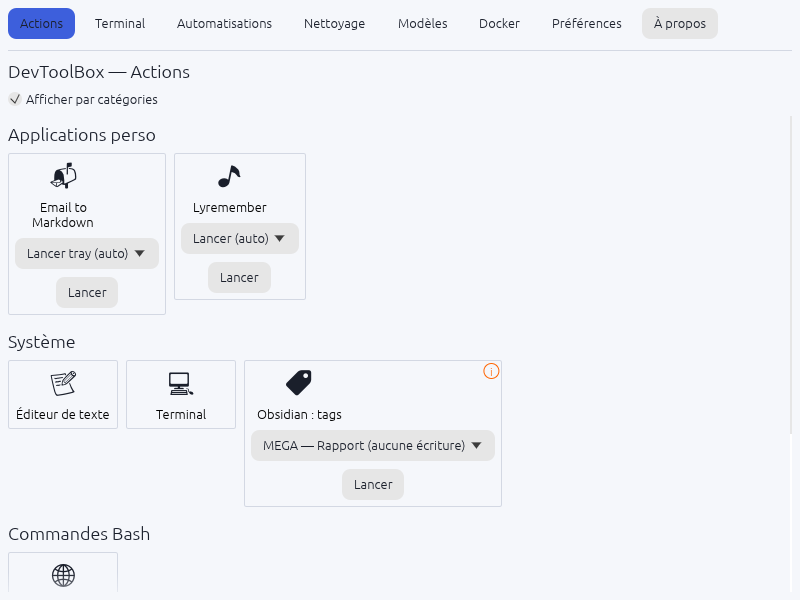
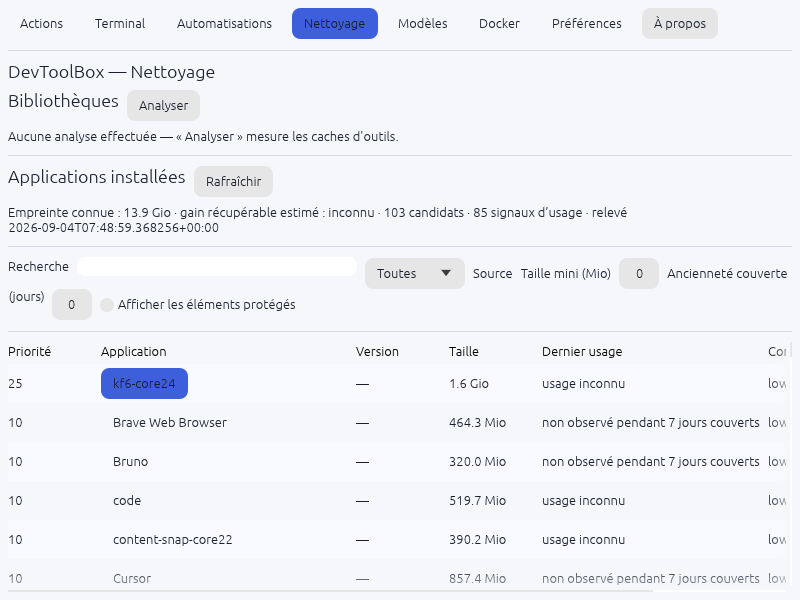
fix(appimage): qualify Linux desktop identity

diff --git a/src/main.rs b/src/main.rs
@@ -53,6 +53,19 @@ impl std::io::Write for FlushFile {
 const LOG_MAX_BYTES: u64 = 5 * 1024 * 1024;
 const MAINTENANCE_ERROR_EXIT_CODE: i32 = 20;
 
+fn application_icon() -> egui::IconData {
+    let image = image::load_from_memory(include_bytes!("../assets/app-icon/devtoolbox.png"))
+        .expect("bundled DevToolBox icon must be valid PNG")
+        .to_rgba8();
+    let (width, height) = image.dimensions();
+
+    egui::IconData {
+        rgba: image.into_raw(),
+        width,
+        height,
+    }
+}
+
 /// One-generation rotation: when `path` is at or past `LOG_MAX_BYTES`, move it
 /// to `<path>.old` (replacing any previous `.old`) so the next run starts from
 /// an empty file. Keeping one generation rather than truncating outright means
@@ -143,6 +156,7 @@ fn main() {
         viewport: ui::native_window::configure_viewport(
             egui::ViewportBuilder::default()
                 .with_title("DevToolBox")
+                .with_icon(application_icon())
                 .with_inner_size([800.0, 600.0])
                 .with_min_inner_size([400.0, 300.0]),
         ),
@@ -222,7 +236,7 @@ where
 #[cfg(test)]
 mod tests {
     use super::{
-        rotate_if_oversized, run_maintenance_command_with, LOG_MAX_BYTES,
+        application_icon, rotate_if_oversized, run_maintenance_command_with, LOG_MAX_BYTES,
         MAINTENANCE_ERROR_EXIT_CODE,
     };
     use std::io::Write as _;
@@ -256,6 +270,15 @@ mod tests {
         assert_eq!(std::fs::metadata(&log).expect("still there").len(), 32);
         assert!(!dir.join("devtoolbox.log.old").exists());
         let _ = std::fs::remove_dir_all(&dir);
+    }
+
+    #[test]
+    fn bundled_application_icon_is_a_square_rgba_image() {
+        let icon = application_icon();
+
+        assert_eq!(icon.width, 1024);
+        assert_eq!(icon.height, 1024);
+        assert_eq!(icon.rgba.len(), (icon.width * icon.height * 4) as usize);
     }
 
     #[test]

diff --git a/scripts/verify-package-config.py b/scripts/verify-package-config.py
@@ -25,6 +25,11 @@ require(config.get("macos", {}).get("minimumSystemVersion") == "13.0", "macOS 13
 require(set(config.get("deb", {}).get("depends", [])) >= {"libc6 (>= 2.35)", "libx11-6", "libwayland-client0"}, "dépendances deb incomplètes")
 require("desktopTemplate" in config.get("deb", {}), "template desktop deb absent")
 require(config.get("linux", {}).get("generateDesktopEntry") is True, "desktop Linux absent")
+desktop_template = ROOT / config.get("deb", {}).get("desktopTemplate", "")
+if desktop_template.is_file():
+    desktop = desktop_template.read_text(encoding="utf-8")
+    require("Categories=Development;" in desktop, "catégorie Linux Development absente")
+    require("StartupWMClass=DevToolBox" in desktop, "StartupWMClass Linux doit correspondre à la fenêtre X11")
 for path in [
     "assets/app-icon/devtoolbox.icns", "assets/app-icon/devtoolbox.ico",
     "assets/app-icon/devtoolbox.png", "packaging/macos/entitlements.plist",

diff --git a/aidd_docs/tasks/2026_09/2026_09_03_linux-local-qualification/phase-3.md b/aidd_docs/tasks/2026_09/2026_09_03_linux-local-qualification/phase-3.md
@@ -1,5 +1,5 @@
 ---
-status: in-progress
+status: done
 ---
 
 <!-- Fill or omit these sections; never add, rename, or reorder one. -->
@@ -66,12 +66,13 @@ journey
 3. Pendant l'exécution, capturer `mount | grep '\.mount_'` dans `evidence/linux-appimage-mount.txt`
 4. Capturer `evidence/linux-appimage-run.png`
 
-**Fait (2026-09-03).** AppImage copiée sous `~/Téléchargements/`, rendue exécutable,
+**Fait (2026-09-04).** AppImage reconstruite, copiée sous `~/Téléchargements/`, rendue exécutable,
 lancée directement. `mount | grep '.mount_devtoo'` confirme le montage FUSE
 (`evidence/linux-appimage-mount.txt`) : `libfuse2`, `/dev/fuse` et
 `fusermount`/`fusermount3` présents, montage réussi sans intervention. Capture
 `evidence/linux-appimage-run.png` : fenêtre rendue correctement, police
-embarquée nette (pas de repli visible vers une police système).
+embarquée nette (pas de repli visible vers une police système), puis rapport
+d'applications visible.
 
 ### `2)` Vérifier le comportement réel
 
@@ -82,14 +83,16 @@ embarquée nette (pas de repli visible vers une police système).
 3. Confirmer que `config.json`/données utilisateur restent sous les répertoires XDG habituels et non sous le point de montage `.mount_` (qui disparaît à la fermeture)
 4. Fermer l'application et confirmer la disparition du point de montage `.mount_`
 
-**En cours (2026-09-03).** Étape 1 confirmée avec la tâche 1 ci-dessus. Étape 2 a
+**Fait (2026-09-04).** Étape 1 est confirmée avec la tâche 1 ci-dessus. L'étape 2 avait
 révélé un vrai écart, traité en tâche 3 ci-dessous : le clic sur l'action
 « rapport d'applications » (onglet Nettoyage → Applications installées)
-produisait un `Fatal Python error: init_fs_encoding` /
+produisait auparavant un `Fatal Python error: init_fs_encoding` /
 `ModuleNotFoundError: No module named 'encodings'`, absent du `.deb` (voir
-`linux-deb-app-report.png` en phase 2). Étapes 3-4 pas encore rejouées : en
-attente de la reconstruction de l'AppImage (tâche 3, étape 3) avant de
-revalider l'ensemble de la tâche 2.
+`linux-deb-app-report.png` en phase 2). Après reconstruction, le rapport
+affiche 103 candidats sans exception. `~/.config/devtoolbox` et
+`~/.local/state/devtoolbox` restent les seuls emplacements de données observés ;
+aucune donnée utilisateur ne réside sous `/tmp/.mount_devtoo*`. La fermeture
+de la fenêtre retire ce point de montage.
 
 ### `3)` Corriger si la résolution diverge
 
@@ -99,7 +102,7 @@ revalider l'ensemble de la tâche 2.
 2. Avant reconstruction, faire passer `cargo fmt --check`, `cargo clippy -- -D warnings` et `cargo test`
 3. Reconstruire l'AppImage (retour à la phase 1, tâche 2) et revalider les tâches 1-2 de cette phase
 
-**En cours (2026-09-03).** `action_root()` résolvait déjà correctement
+**Fait (2026-09-04).** `action_root()` résolvait déjà correctement
 `scripts/`/`config/` sous `$APPDIR/usr/lib/devtoolbox` (confirmé par
 inspection directe du point de montage) — ce n'était donc pas la cause. La
 cause réelle, hors du périmètre initialement prévu pour cette tâche mais
@@ -127,12 +130,16 @@ grille de cartes.
 Étape 2 : `cargo fmt --check`, `cargo clippy -- -D warnings` passent sans
 avertissement ; `cargo test` : 712 tests passants, 0 échec.
 
-Étape 3 : reconstruction (`cargo build --release --locked` puis
-`cargo packager --release --formats deb,appimage`) lancée mais **interrompue
-avant complétion** (arrêt de session). La revalidation des tâches 1-2 sur
-l'AppImage reconstruite reste à faire à la reprise — tant qu'elle n'est pas
-faite, le correctif n'est pas confirmé fonctionnel en conditions réelles,
-seulement par inspection de code et tests unitaires.
+Étape 3 : la reconstruction (`cargo build --release --locked` puis
+`cargo packager --release --formats deb,appimage`) a produit les deux paquets
+le 2026-09-04. L'AppImage reconstruite a repassé les tâches 1-2 sans écart :
+montage FUSE, police et rapport d'applications fonctionnels, données XDG hors
+montage, et démontage à la fermeture. Le repli
+`--appimage-extract-and-run` démarre aussi DevToolBox sans créer de montage
+FUSE. Côté intégration bureau, le lanceur installé par le `.deb` associe
+désormais correctement la fenêtre via `StartupWMClass=DevToolBox` ; l'AppImage
+portable lancée directement reste, elle, un binaire non installé et n'est donc
+pas qualifiée ici comme favori GNOME persistant.
 
 ## Test acceptance criteria
 
